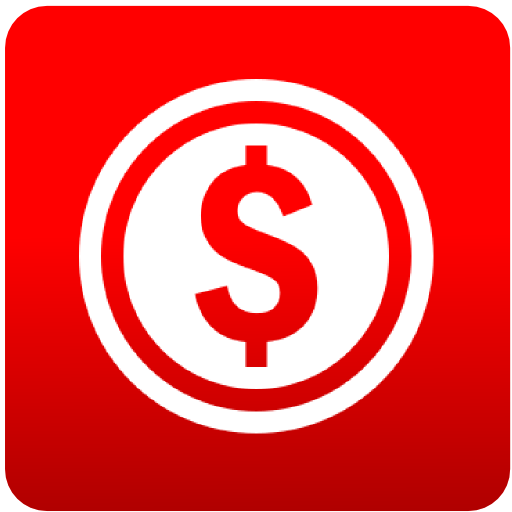
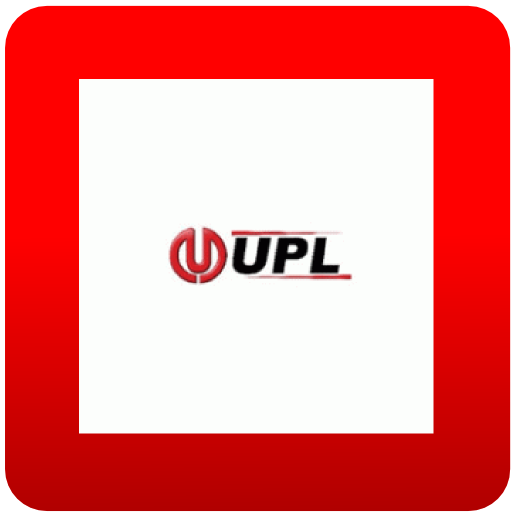
{"appId":"60","shortcut":"auto","pgBuildId":"1656033","datetime":"2016-03-22 18:12:28"}

Changed region(s): [[0.1562, 0.1562, 0.875, 0.875], [0.3125, 0.2812, 0.6875, 0.7188]]

diff --git a/datos.js b/datos.js
@@ -1,1 +1,1 @@
-var appo = {"id":1,"path":"\/var\/www\/apps\/app-dues","domain":"http:\/\/cloud1.cloudcrm.tech\/appAuth.php?hash=fb536f563e1f4cfe5164635a8eb8218f&app=dues","version":null,"a4pp_dir":"\/var\/www\/apps\/","disableLog":false,"space":"apps\/app-dues","appHeader":"#F00","appHeaderColor":"#FFF","appVersion":1,"appName":"Custom App","appDomain":"dues.cloudcrm.tech","appUser":null,"addCss":"\n\/* - Version 0 - *\/\n.material-bar,.navbar.navbar-inverse{\n\tbackground:#F00;\n\tbackground: #ff3019;\n\tbackground: -moz-linear-gradient(top, #F00 0%, #F00 100%);\n\tbackground: -webkit-gradient(linear, left top, left bottom, color-stop(0%,#F00), color-stop(100%,#F00));\n\tbackground: -webkit-linear-gradient(top, #F00 0%,#F00 100%);\n\tbackground: -o-linear-gradient(top, #F00 0%,#F00 100%);\n\tbackground: linear-gradient(to bottom, #F00 0%,#F00 100%);\n\tcolor:#FFF;\n}\n.material-bar .navbar-item{\n\tcolor:#FFF;\n}","lang":"es","runJS":"console.log(\"Callback\");","templates":{"header":"<table border=\"0\" cellpadding=\"0\" cellspacing=\"0\" class='table'>\r\n\t<tr>\r\n\t\t<td>\r\n\t\t<a onclick='goBack();' class=\"navbar-item\">\r\n\t\t\t<span class=\"glyphicon glyphicon-triangle-left\"><\/span>\r\n\t\t<\/a>\r\n\t\t<\/td>\r\n\t\t<td style='width:100%'>\r\n\t\t<a onclick='goBack();' class=\"navbar-item\">\r\n\t\t\t<% if(this.logo!=undefined){ %>\r\n\t\t\t\t<img src='<% this.logo %>' class='appLogo'>\r\n\t\t\t<% }else{ %>\r\n\t\t\t\t<% this.title %>\r\n\t\t\t<% } %>\r\n\t\t<\/a>\r\n\t\t<\/td>\r\n\t\t<% for(var item in this.headerItems){ %>\r\n\t\t\t<td>\r\n\t\t\t\t<a class=\"navbar-item\" onclick='<% this.headerItems[item].func %>'><span id='updateIcon' class=\"glyphicon glyphicon-<% this.headerItems[item].icon %>\"><\/span><\/a>\r\n\t\t\t<\/td>\r\n\t\t<% } %>\r\n\t\t<% if(this.menu.length > 0){ %>\r\n\t\t<td>\r\n\t\t\t<a class=\"navbar-item\" onclick='toggleMenu();'><span class=\"glyphicon glyphicon-option-vertical\"><\/span><\/a>\r\n\t\t<\/td>\r\n\t\t<% } %>\r\n\t<\/tr>\r\n<\/table>\r\n"},"download_images":[],"based":"base","onRememberLoaded":"console.log('onRememberLoaded triggered');","title":"Deudas","model":"login","items":null,"details":"","icon":null,"callback":null,"glyphicon":"none","color":"silver","menu":[{"title":"Iniciar sesion","onclick":"a4pp_login_form();"},{"title":"Restrarse","onclick":"a4pp_register_form();"}],"headerItems":[],"async":false,"xpath":"","hidden":0,"url":"http:\/\/cloud1.cloudcrm.tech\/appAuth.php?hash=fb536f563e1f4cfe5164635a8eb8218f&app=dues","appHeader2":"#F00","appTitle":"Deudas","logged":false,"errmsg":"","download_url":"http:\/\/cloud1.cloudcrm.tech\/appAuth.php?ss=bnVsbA==&hash=46ad73c39e4bcc964556bddd1709700d&app=dues","update_url":"http:\/\/cloud1.cloudcrm.tech\/appAuth.php?ss=bnVsbA==&hash=46ad73c39e4bcc964556bddd1709700d&app=dues","md5":"b5768acef73f2c700aeadf8d9234e719"};
+var appo = {"id":1,"path":"\/var\/www\/apps\/app-auto72","domain":"http:\/\/cloud72.cloudcrm.tech\/appAuth.php?hash=4b562a5b6614a70746b76f4ee7b92708&app=auto72","version":null,"a4pp_dir":"\/var\/www\/apps\/","disableLog":false,"space":"apps\/app-auto72","appHeader":"#ff0000","appHeaderColor":"#ffffff","appVersion":1,"appName":"Custom App","appDomain":"auto72.cloudcrm.tech","appUser":null,"addCss":"\n\/* - Version 0 - *\/\n.material-bar,.navbar.navbar-inverse{\n\tbackground:#ff0000;\n\tbackground: #ff3019;\n\tbackground: -moz-linear-gradient(top, #ff0000 0%, #ff0000 100%);\n\tbackground: -webkit-gradient(linear, left top, left bottom, color-stop(0%,#ff0000), color-stop(100%,#ff0000));\n\tbackground: -webkit-linear-gradient(top, #ff0000 0%,#ff0000 100%);\n\tbackground: -o-linear-gradient(top, #ff0000 0%,#ff0000 100%);\n\tbackground: linear-gradient(to bottom, #ff0000 0%,#ff0000 100%);\n\tcolor:#ffffff;\n}\n.material-bar .navbar-item{\n\tcolor:#ffffff;\n}","lang":"es","runJS":"console.log(\"Callback\");","templates":{"header":"<table border=\"0\" cellpadding=\"0\" cellspacing=\"0\" class='table'>\r\n\t<tr>\r\n\t\t<td>\r\n\t\t<a onclick='goBack();' class=\"navbar-item\">\r\n\t\t\t<span class=\"glyphicon glyphicon-triangle-left\"><\/span>\r\n\t\t<\/a>\r\n\t\t<\/td>\r\n\t\t<td style='width:100%'>\r\n\t\t<a onclick='goBack();' class=\"navbar-item\">\r\n\t\t\t<% if(this.logo!=undefined){ %>\r\n\t\t\t\t<img src='<% this.logo %>' class='appLogo'>\r\n\t\t\t<% }else{ %>\r\n\t\t\t\t<% this.title %>\r\n\t\t\t<% } %>\r\n\t\t<\/a>\r\n\t\t<\/td>\r\n\t\t<% for(var item in this.headerItems){ %>\r\n\t\t\t<td>\r\n\t\t\t\t<a class=\"navbar-item\" onclick='<% this.headerItems[item].func %>'><span id='updateIcon' class=\"glyphicon glyphicon-<% this.headerItems[item].icon %>\"><\/span><\/a>\r\n\t\t\t<\/td>\r\n\t\t<% } %>\r\n\t\t<% if(this.menu.length > 0){ %>\r\n\t\t<td>\r\n\t\t\t<a class=\"navbar-item\" onclick='toggleMenu();'><span class=\"glyphicon glyphicon-option-vertical\"><\/span><\/a>\r\n\t\t<\/td>\r\n\t\t<% } %>\r\n\t<\/tr>\r\n<\/table>\r\n"},"download_images":[],"based":"base","onRememberLoaded":"console.log('onRememberLoaded triggered');","title":"UPL","model":"login","items":null,"details":"","icon":null,"callback":null,"glyphicon":"none","color":"silver","menu":[{"title":"Iniciar sesion","onclick":"a4pp_login_form();"},{"title":"Restrarse","onclick":"a4pp_register_form();"}],"headerItems":[],"async":false,"xpath":"","hidden":0,"url":"http:\/\/cloud72.cloudcrm.tech\/appAuth.php?hash=4b562a5b6614a70746b76f4ee7b92708&app=auto72","appHeader2":"#ff0000","appTitle":"UPL","logged":false,"errmsg":"","download_url":"http:\/\/cloud72.cloudcrm.tech\/appAuth.php?ss=bnVsbA==&hash=46ad73c39e4bcc964556bddd1709700d&app=auto72","update_url":"http:\/\/cloud72.cloudcrm.tech\/appAuth.php?ss=bnVsbA==&hash=46ad73c39e4bcc964556bddd1709700d&app=auto72","md5":"62d9dbfe062c1452e472a8a5a24413d3"};

diff --git a/index.html b/index.html
@@ -4,12 +4,12 @@
 		<meta charset="UTF-8">
 		<meta name="viewport" content="width=device-width, initial-scale=1.0, user-scalable=no, maximum-scale=1.0">
 		<title>...</title>
-		<link rel="stylesheet" type="text/css" href="css/roboto/roboto.css?md=1458585618">
-		<link rel="stylesheet" type="text/css" href="css/bootstrap.min.css?md=1458585618">
-		<link rel="stylesheet" type="text/css" href="css/circles.css?md=1458585618">
-		<link rel="stylesheet" type="text/css" href="css/a4pp.css?md=1458585618">
-		<link rel="stylesheet" type="text/css" href="css/custom.css?md=1458585618">
-		<link rel="stylesheet" type="text/css" href="css/custom-app.css?md=1458585618">
+		<link rel="stylesheet" type="text/css" href="css/roboto/roboto.css?md=1458670346">
+		<link rel="stylesheet" type="text/css" href="css/bootstrap.min.css?md=1458670346">
+		<link rel="stylesheet" type="text/css" href="css/circles.css?md=1458670346">
+		<link rel="stylesheet" type="text/css" href="css/a4pp.css?md=1458670346">
+		<link rel="stylesheet" type="text/css" href="css/custom.css?md=1458670346">
+		<link rel="stylesheet" type="text/css" href="css/custom-app.css?md=1458670346">
 	</head>
 	<body>
 
@@ -72,18 +72,19 @@
 		<!-- scripts -->
 		<script src="cordova.js"></script>
         <script src="barcodescanner.js"></script>
-		<script src="js/fastclick.js?md=1458585618"></script>
-		<script src="datos.js?md=1458585618" type="text/javascript"></script>
-		<script src="js/apis.js?md=1458585618"></script>
-		<script src="js/a4pp.js?md=1458585618"></script>
-		<script src="js/app.js?md=1458585618"></script>
+		<script src="js/fastclick.js?md=1458670346"></script>
+		<script src="datos.js?md=1458670346" type="text/javascript"></script>
+		<script src="js/apis.js?md=1458670346"></script>
+		<script src="js/a4pp.js?md=1458670346"></script>
+		<script src="js/app.js?md=1458670346"></script>
 		<script src="js/watch.js"></script>
         <script src="js/remember.js"></script>
         <script src="js/forms.js"></script>
-		<script src="js/jquery.min.js?md=1458585618"></script>
-		<script src="js/jquery.signaturepad.min.js?md=1458585618"></script>
-		<script src="js/bootstrap.min.js?md=1458585618"></script>
-		<script src="js/custom-app.js"></script>
+		<script src="js/jquery.min.js?md=1458670346"></script>
+		<script src="js/jquery.signaturepad.min.js?md=1458670346"></script>
+		<script src="js/bootstrap.min.js?md=1458670346"></script>
+		<!-- File: /var/www/apps/auto72/app.js = bool(false)
+ --> 
 		        <script src="http://cloud.cloudcrm.tech:8080/socket.io/socket.io.js"></script>
         <script src="js/socket.io.app.js"></script>
         <script>

diff --git a/css/custom.css b/css/custom.css
@@ -3,15 +3,15 @@
 
 /* - Version 0 - */
 .material-bar,.navbar.navbar-inverse{
-	background:#F00;
+	background:#ff0000;
 	background: #ff3019;
-	background: -moz-linear-gradient(top, #F00 0%, #F00 100%);
-	background: -webkit-gradient(linear, left top, left bottom, color-stop(0%,#F00), color-stop(100%,#F00));
-	background: -webkit-linear-gradient(top, #F00 0%,#F00 100%);
-	background: -o-linear-gradient(top, #F00 0%,#F00 100%);
-	background: linear-gradient(to bottom, #F00 0%,#F00 100%);
-	color:#FFF;
+	background: -moz-linear-gradient(top, #ff0000 0%, #ff0000 100%);
+	background: -webkit-gradient(linear, left top, left bottom, color-stop(0%,#ff0000), color-stop(100%,#ff0000));
+	background: -webkit-linear-gradient(top, #ff0000 0%,#ff0000 100%);
+	background: -o-linear-gradient(top, #ff0000 0%,#ff0000 100%);
+	background: linear-gradient(to bottom, #ff0000 0%,#ff0000 100%);
+	color:#ffffff;
 }
 .material-bar .navbar-item{
-	color:#FFF;
+	color:#ffffff;
 }
